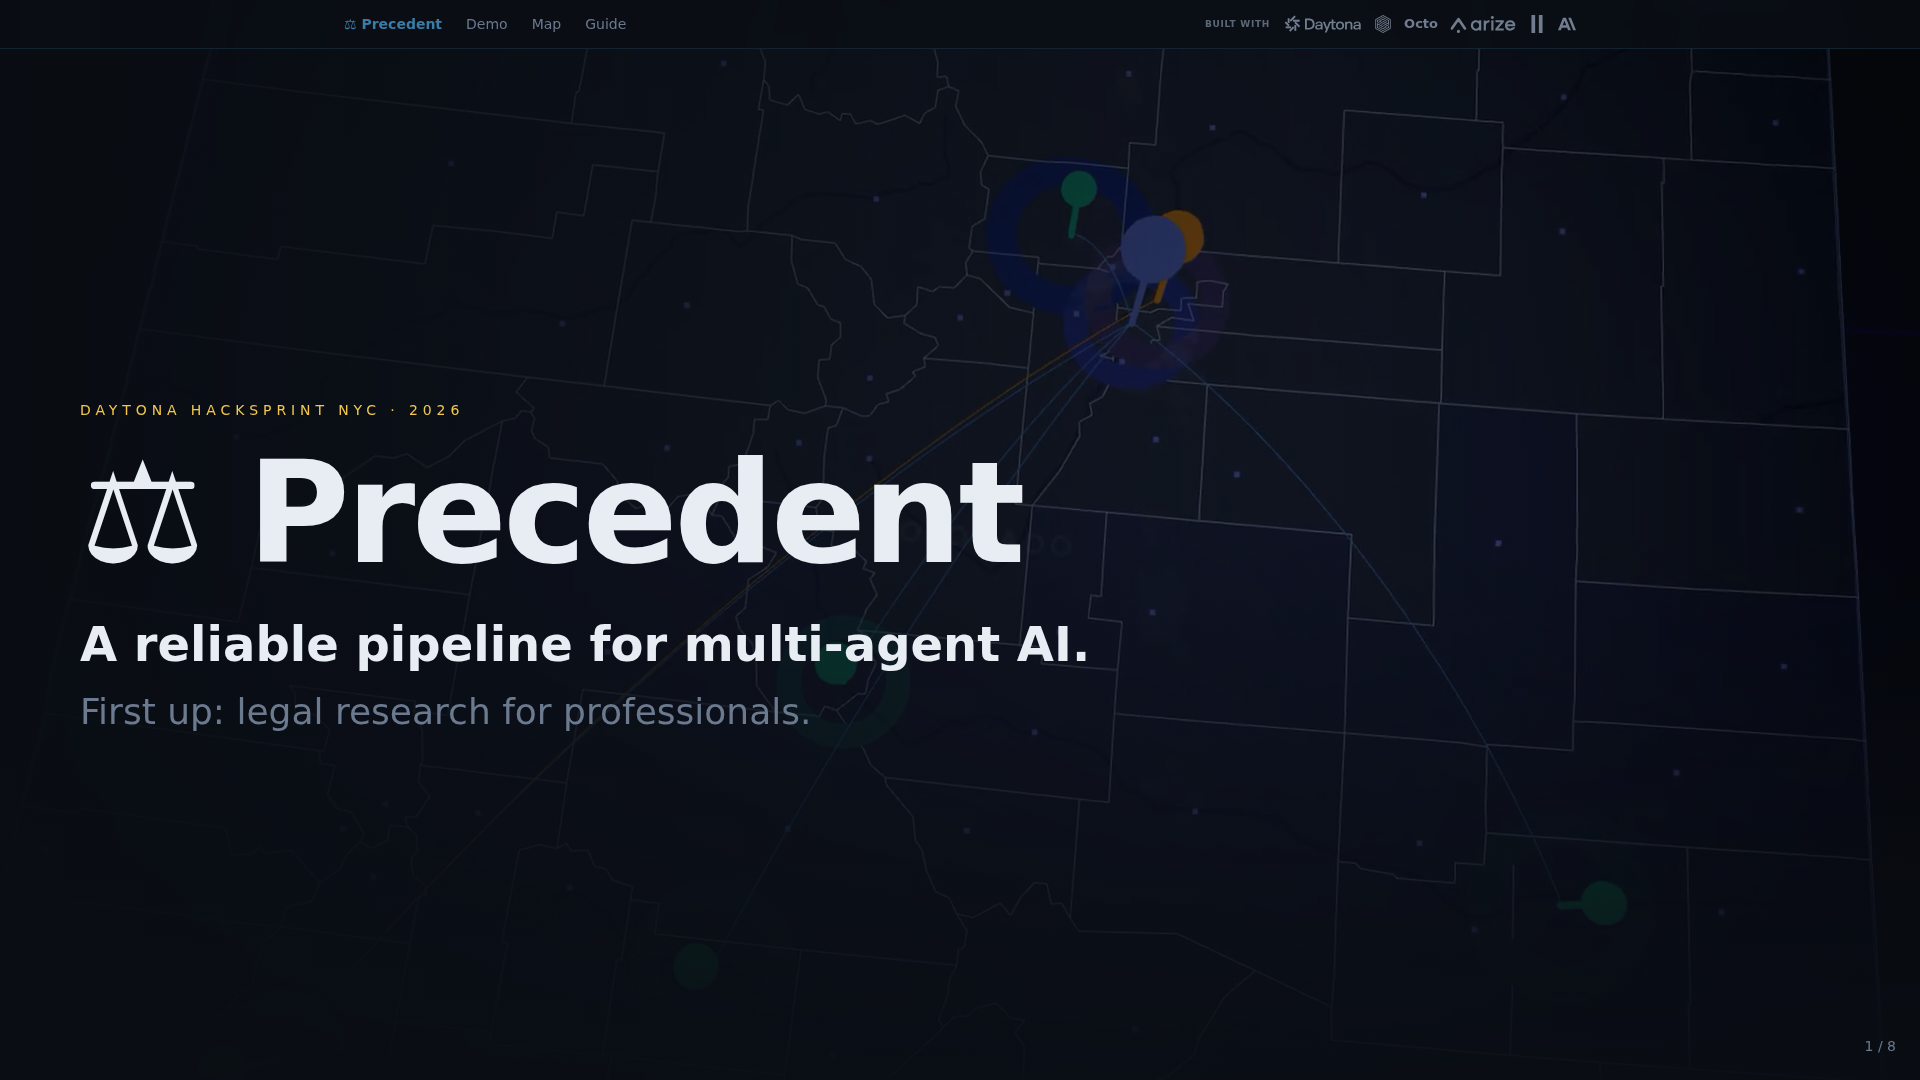
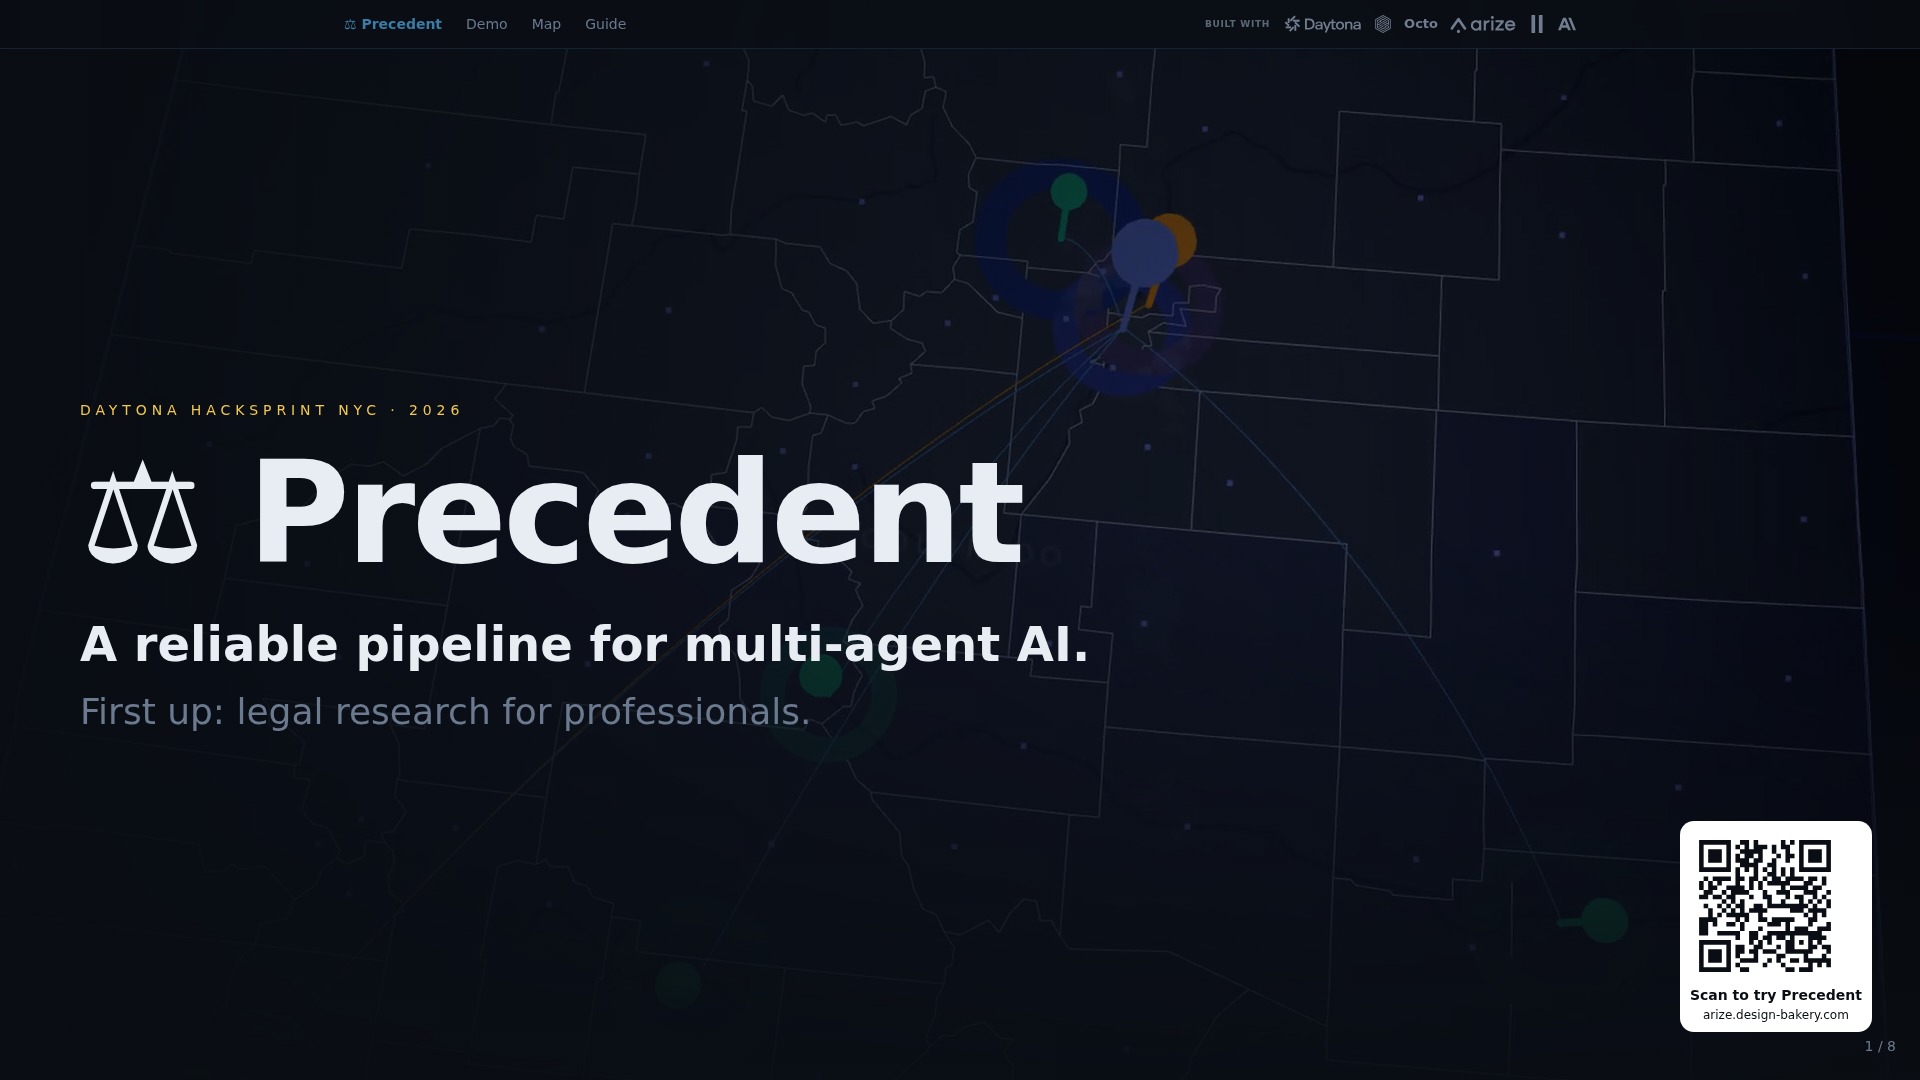
Slides: QR to arize.design-bakery.com (hero corner + final slide), refreshed shots

diff --git a/static/slides.html b/static/slides.html
@@ -109,6 +109,7 @@ body {
     <div class="text-5xl font-semibold mb-4" style="color: var(--ink); max-width: 1200px; line-height: 1.2;">A reliable pipeline for multi-agent AI.</div>
     <div class="text-4xl" style="color: var(--muted); max-width: 1200px; line-height: 1.3;">First up: legal research for professionals.</div>
   </div>
+  <div class="absolute z-20 text-center" style="right:48px;bottom:48px;background:#fff;border-radius:14px;padding:10px 10px 8px;"><img src="/static/vendor/qr_demo.svg" alt="QR code" style="width:150px;height:150px;display:block"><div style="color:#0A0E14;font-weight:700;font-size:14px;margin-top:4px">Scan to try Precedent</div><div style="color:#0A0E14;font-size:12px">arize.design-bakery.com</div></div>
 </section>
 
 <!-- Slide 2: The Problem -->
@@ -315,10 +316,12 @@ body {
 <section class="slide min-h-screen flex-col justify-center items-center px-20 pt-14 text-center">
   <div class="text-9xl font-black mb-12" style="color: var(--ink);">Thank you</div>
   
-  <div class="text-4xl mb-16" style="color: var(--muted); max-width: 1000px; line-height: 1.4;">
+  <div class="text-4xl mb-10" style="color: var(--muted); max-width: 1000px; line-height: 1.4;">
     A reliable pipeline for multi-agent AI — built today at Daytona HackSprint NYC
   </div>
   
+  <div class="flex items-center gap-16">
+  <div class="text-center" style="background:#fff;border-radius:20px;padding:18px 18px 12px;"><img src="/static/vendor/qr_demo.svg" alt="QR code to the live demo" style="width:min(340px,32vh);height:min(340px,32vh);display:block"><div style="color:#0A0E14;font-weight:800;font-size:24px;margin-top:6px">Scan to try Precedent</div><div style="color:#0A0E14;font-size:20px">https://arize.design-bakery.com</div></div>
   <div class="flex flex-col gap-6 items-center">
     <a href="/" class="inline-block text-3xl px-12 py-6 rounded-2xl font-bold transition-all" style="background: var(--primary); color: var(--ink);" onmouseover="this.style.background='var(--accent)'; this.style.color='var(--bg)'" onmouseout="this.style.background='var(--primary)'; this.style.color='var(--ink)'">
       Open live demo →
@@ -332,6 +335,7 @@ body {
         Read guide
       </a>
     </div>
+  </div>
   </div>
   
   <div class="mt-16 text-xl" style="color: var(--muted);">

diff --git a/ABA_BUILD_LOG.md b/ABA_BUILD_LOG.md
@@ -3,3 +3,4 @@
 - 13:47–13:55 ET: content pass done with direct edits instead of ABA because of the 3:30 PM deadline: pipeline 5 steps incl. Voice; real numbers (Octo snapshot 327,407 passages; SurrealDB 119,770 nodes / 160,793 edges); Arize row on trust slide; 'Built with' partner slide with short one-liners (removed unverified '96 vCPUs' and 'live in 30 minutes'); stat row as an equal 4-column grid, 56px gap, clamped font; screenshots capped at 56vh/50vh so slides 3–4 fit 1080p.
 - Backup: static/slides.html.bak-showcase-*
 - Screenshots: static/slides/shots/slide1..8.png (Playwright headless, 1920x1080)
+- 13:55 ET: QR (segno) -> https://arize.design-bakery.com in static/vendor/qr_demo.svg|png; small in hero bottom-right, large on slide 8, labeled Scan to try Precedent. Cloudflare quick tunnel failed (sandbox egress resets api.trycloudflare.com).
